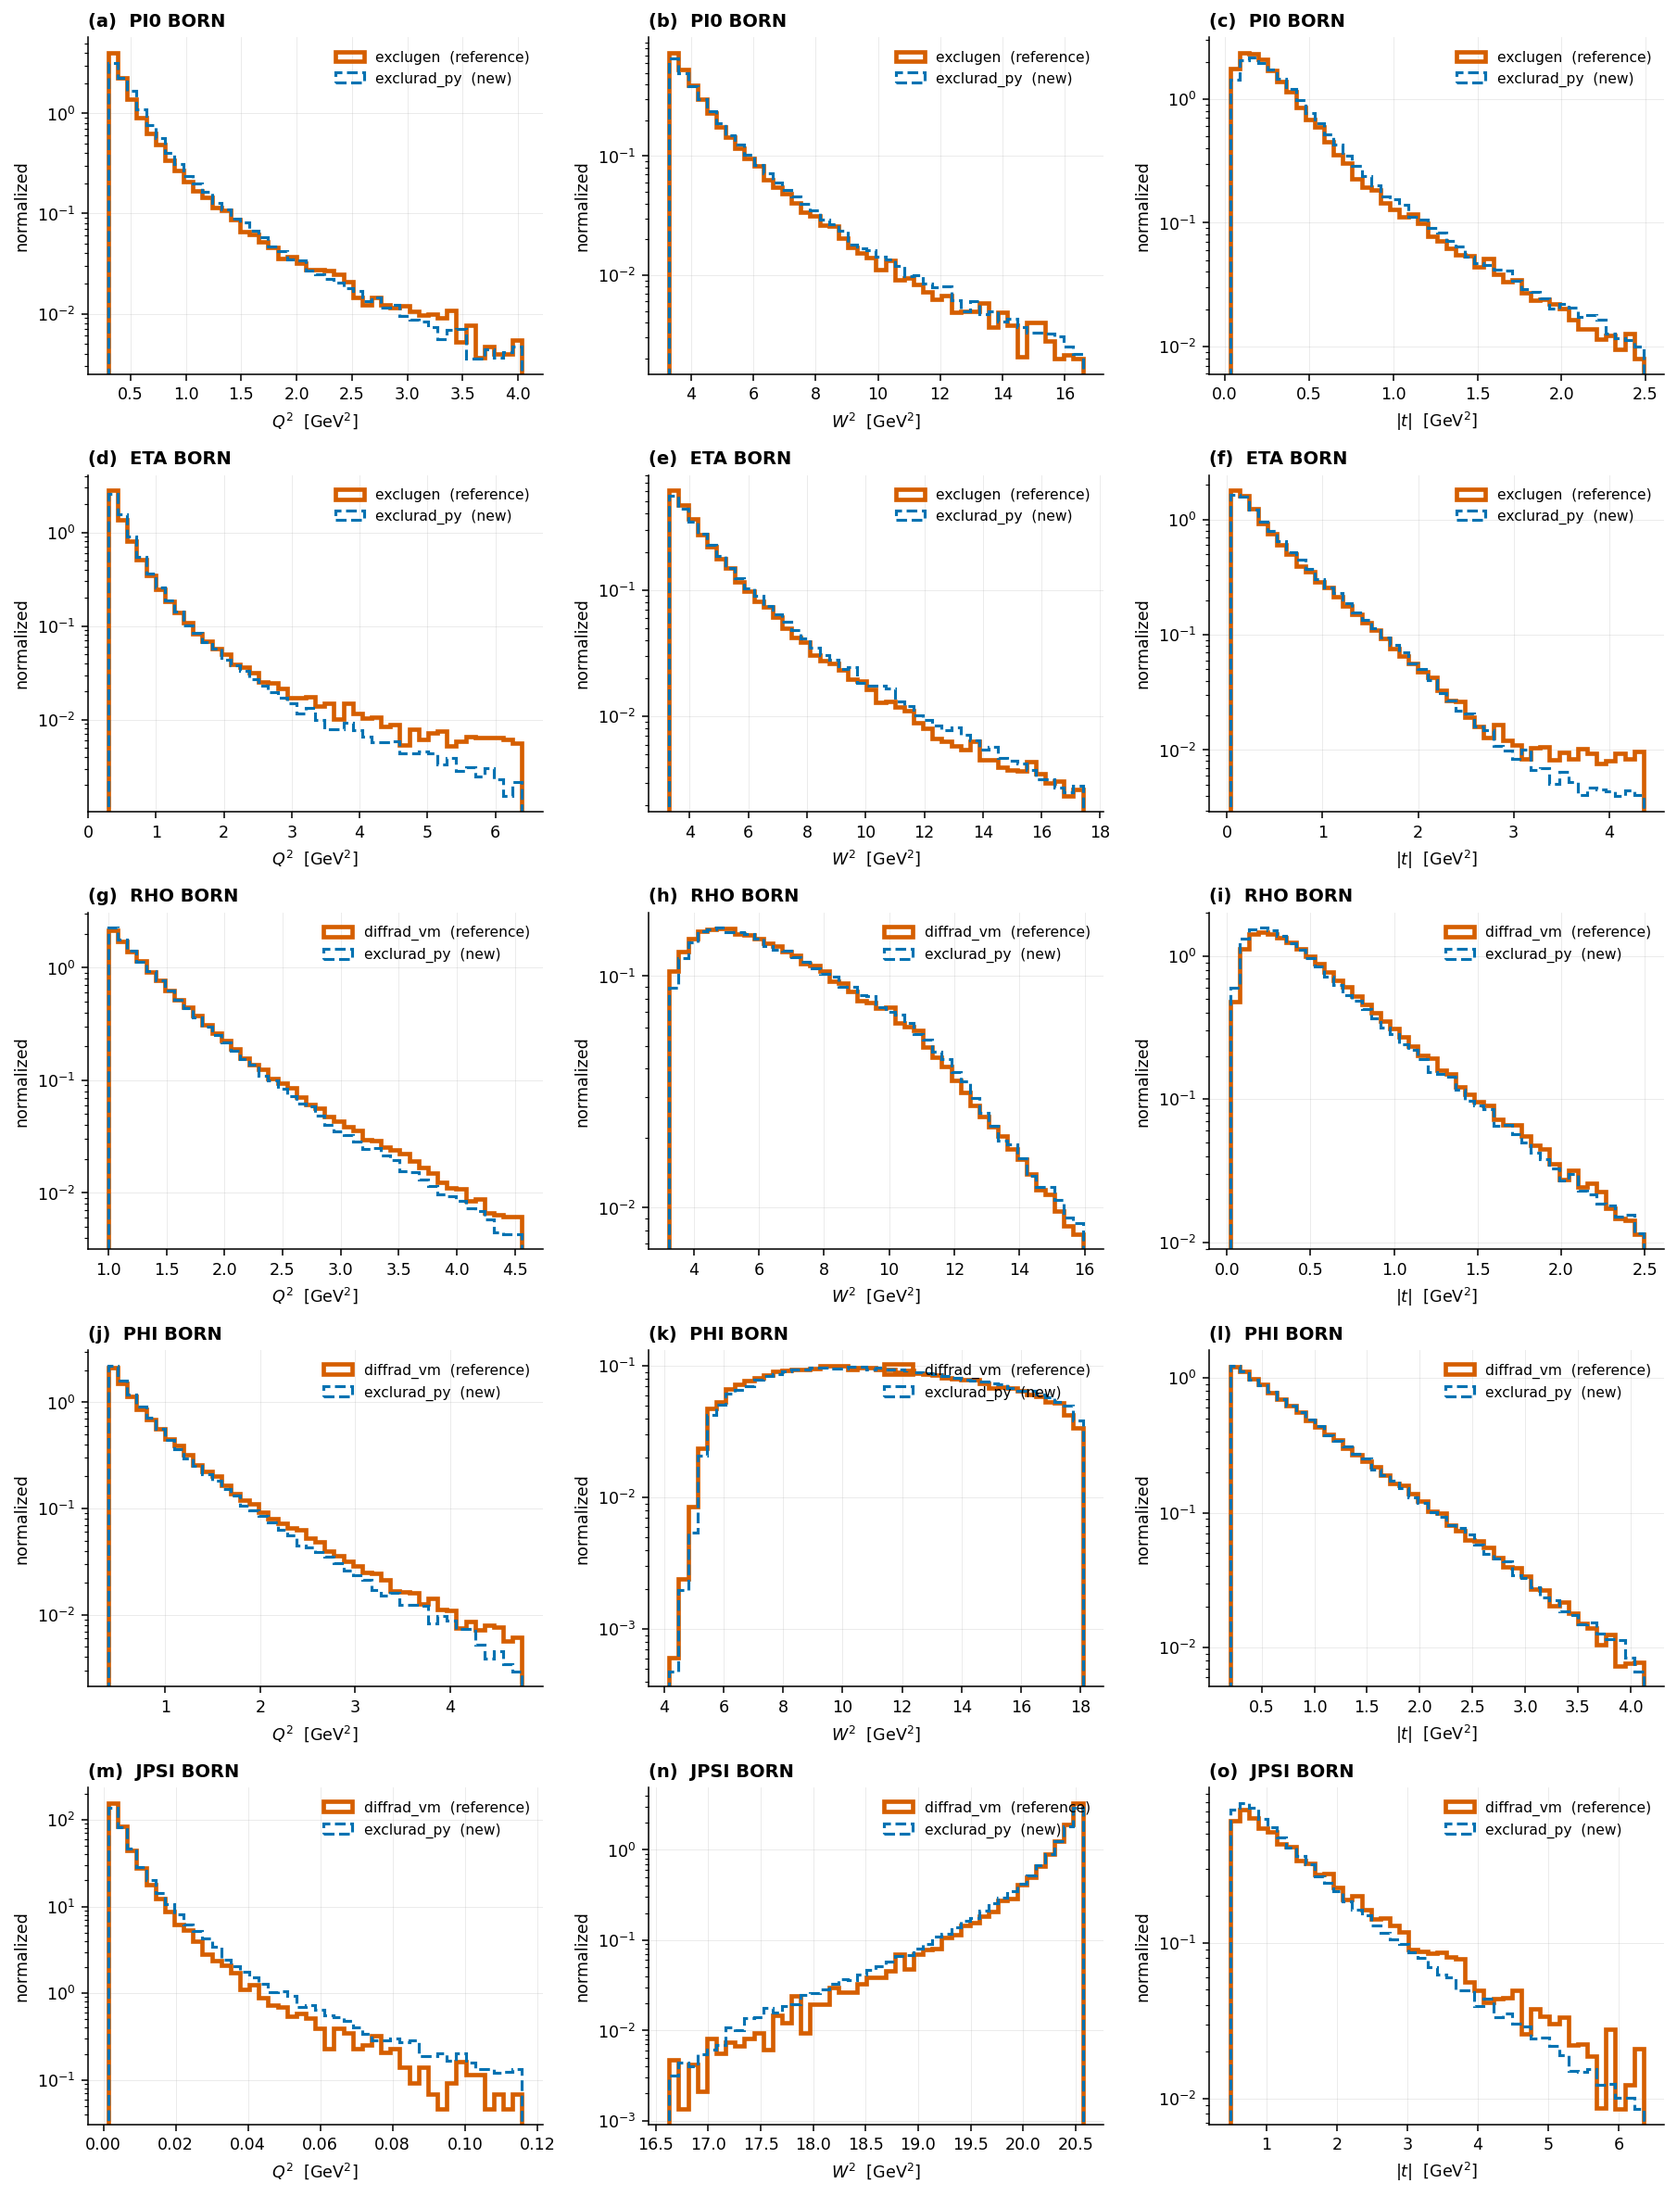
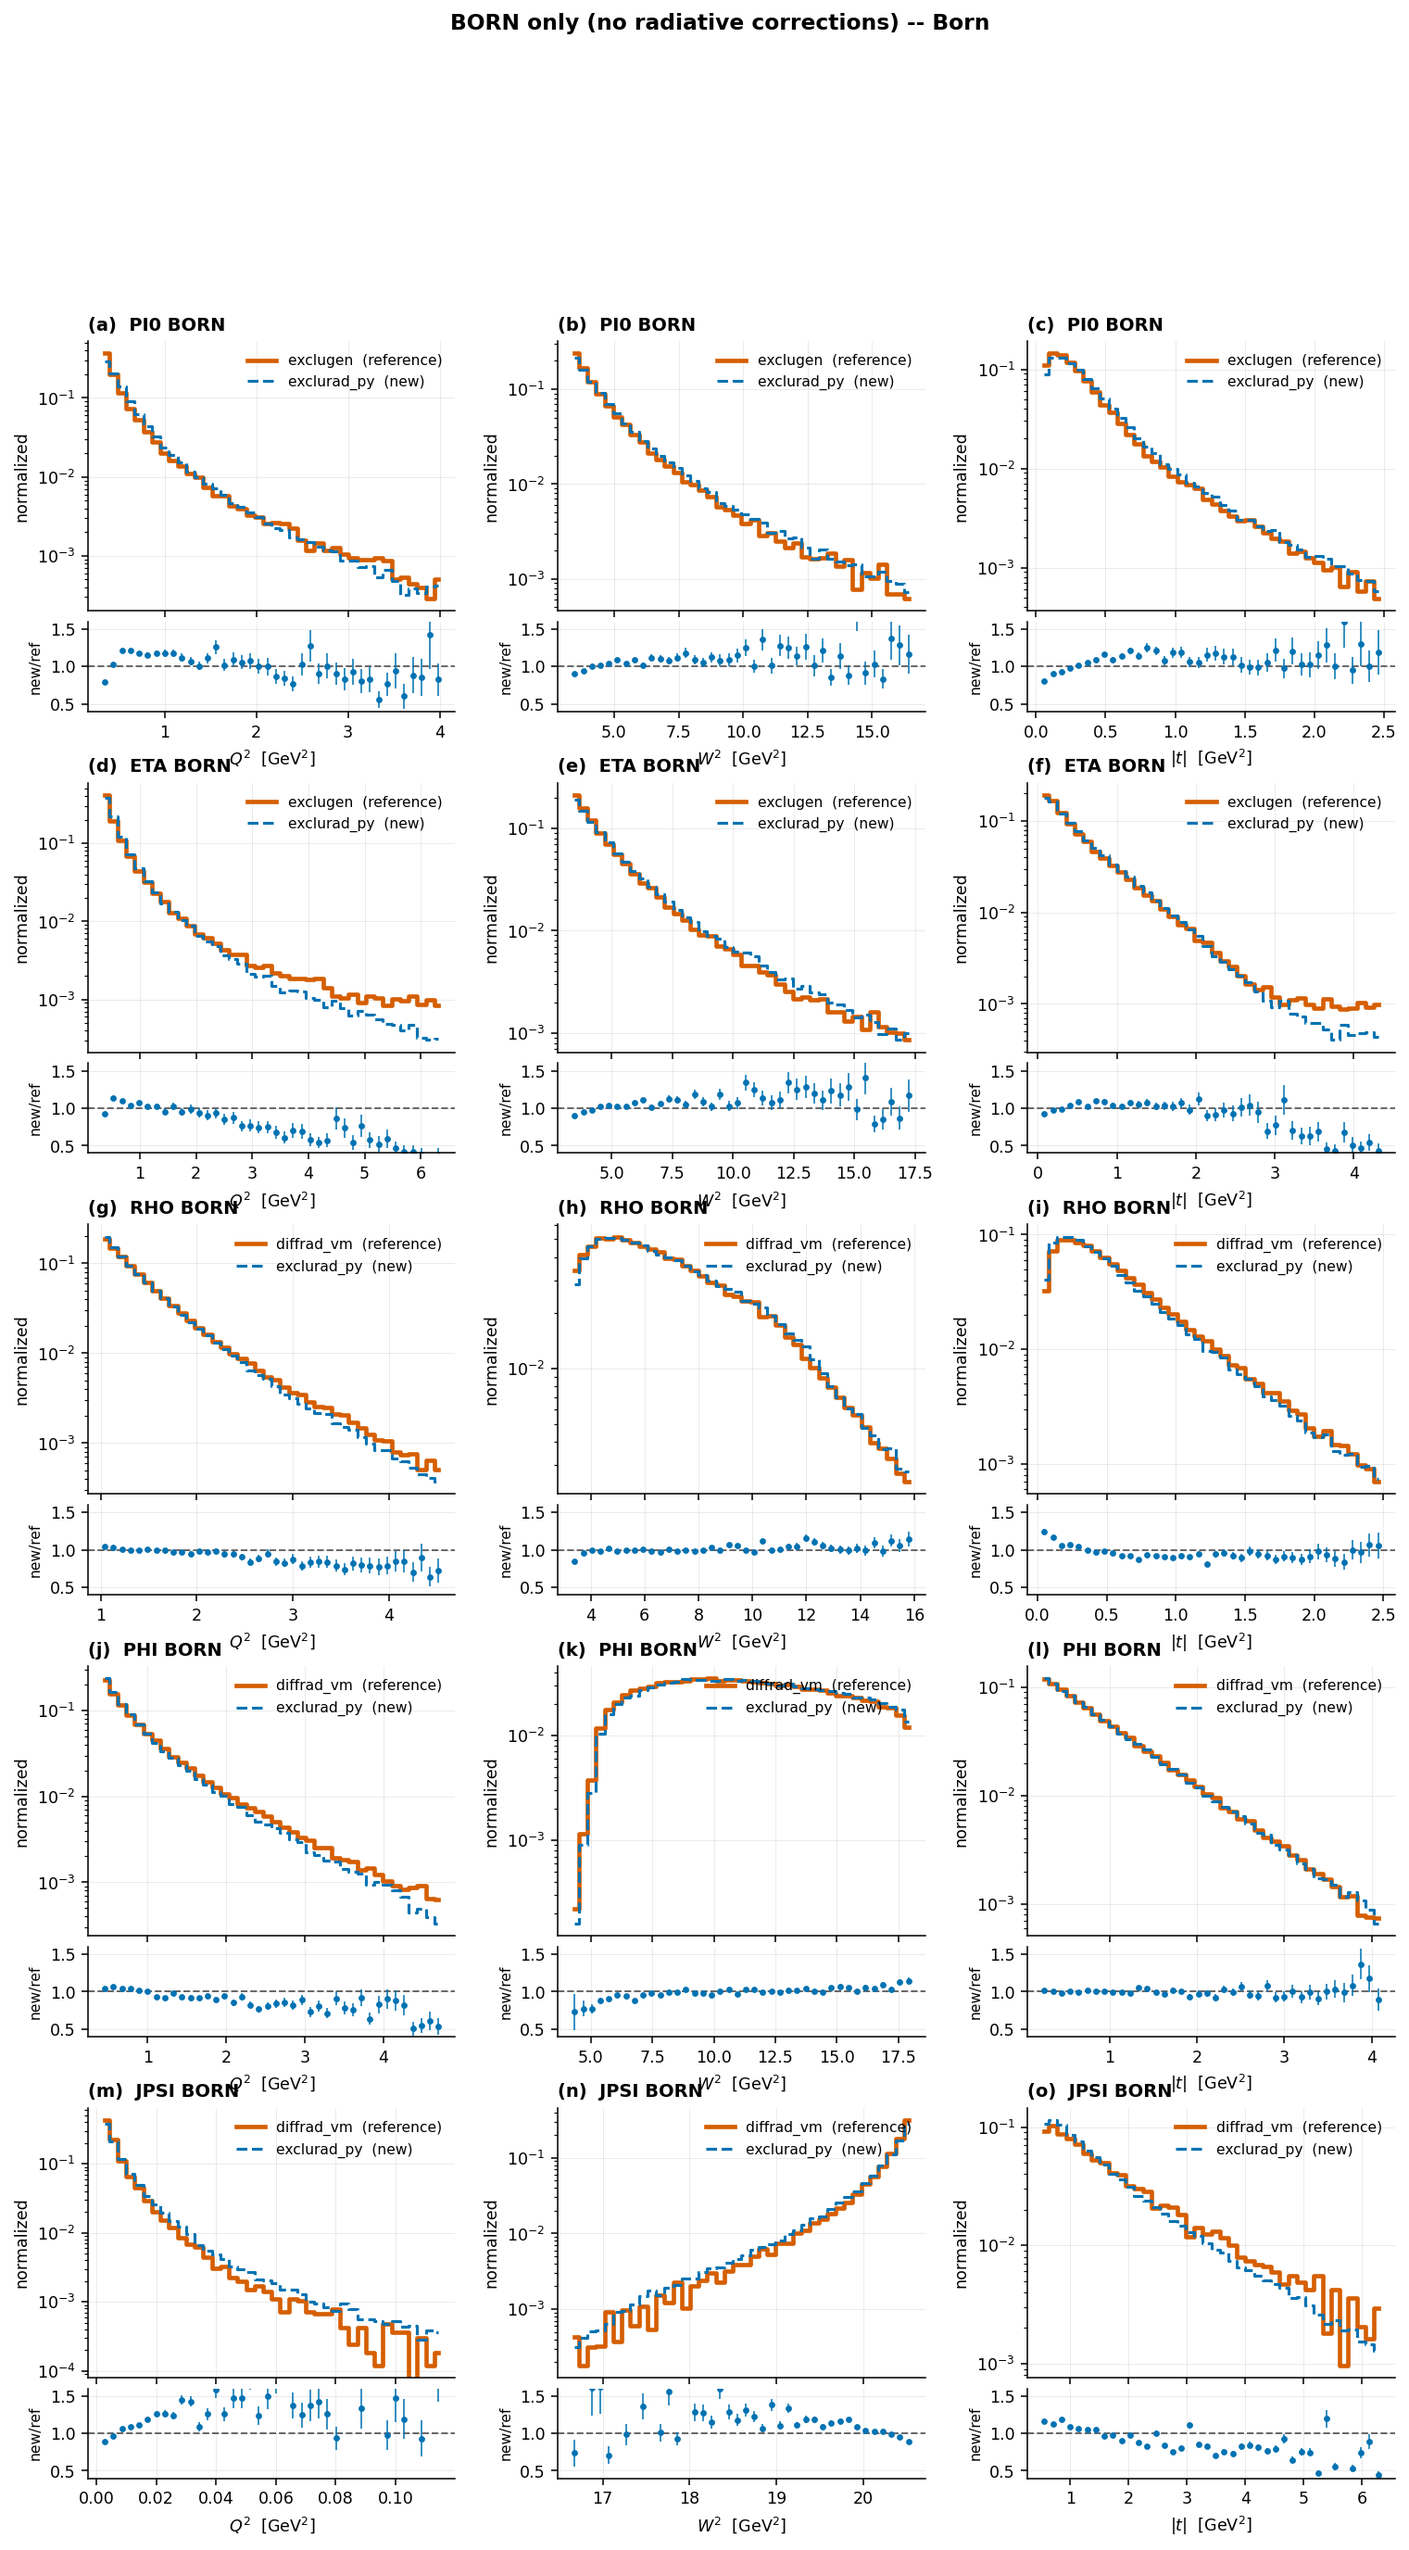
models: stop clamping cross sections at the validity boundary
VPK: 'I don't think that you have to limit the validity of the model. Model
is doing their job and you don't know actually you are doing better or
worse when you fix xs at the limit.'

Correct, and a better argument than the one I was making. Clamping
substitutes a cross section the model never produced, with no evidence the
boundary value is closer to truth than the model's own extrapolation. An
analytic fit is at least self-consistent; a clamp invents a plateau and a
kink in the derivative. And it hides itself -- the event is generated at
its true kinematics but carries a foreign weight.

Measured cost: with validity Q2>0.5 (a bound I invented, not documented in
any fit) against a generation box from 0.3, HALF the sample was clamped --
pi0 51.5%, eta 46.9%. pi0 Born chi2/dof vs exclugen was 24.25 (Q2) and
10.51 (|t|); without the clamp, 1.96 and 0.93 -- statistical agreement.

Default is now OutOfRange.REPORT: evaluate as written, only COUNT the
excursions (sf.usage() already reported them -- I had the instrument all
along and never looked at it). FREEZE/ZERO/RAISE remain for explicit use.

Note eta is NOT explained by this: 94.49 -> 97.41, unchanged. Its Born <Q2>
is 0.73 against exclugen's 1.06, a 30% shift of the whole distribution, not
a tail effect. Separate defect, still open.

diff --git a/production/compare_born.py b/production/compare_born.py
@@ -89,15 +89,34 @@ def mine_files(ch):
     d = f"/Volumes/wd_14tb/mc/exclurad_py/{ch}/20260813_10.6_born_v1/lund"
     return sorted(glob.glob(f"{d}/{ch}_exclurad_py_born_10.6GeV*.lund"))
 
-chans = [c for c in sys.argv[1:] or list(REF) if mine_files(c)]
-fig, ax = plt.subplots(len(chans), 3, figsize=(13, 3.4 * len(chans)), squeeze=False)
+# Split by reference: pseudoscalars are compared to exclugen, vector
+# mesons to diffrad_vm.  Two pages rather than one, since the groups share
+# neither the reference nor the physics.
+GROUPS = {"ps": ["pi0", "eta"], "vm": ["rho", "phi", "jpsi"]}
+args = [a for a in sys.argv[1:] if not a.startswith("-")]
+if args and args[0] in GROUPS:
+    chans = [c for c in GROUPS[args[0]] if mine_files(c)]
+    OUTNAME = f"compare_born_{args[0]}.png"
+    TITLE = ("pseudoscalar mesons vs exclugen" if args[0] == "ps"
+             else "vector mesons vs diffrad_vm")
+else:
+    chans = [c for c in args or list(REF) if mine_files(c)]
+    OUTNAME, TITLE = "compare_born.png", "Born"
+from matplotlib.gridspec import GridSpec
+
+nrow = len(chans)
+# 3 rows per channel: histogram, ratio, and a blank spacer so the next
+# channel's title does not land on the previous ratio panel.
+fig = plt.figure(figsize=(13, 4.4 * nrow))
+gs = GridSpec(3 * nrow, 3, figure=fig,
+              height_ratios=[3, 1, 0.55] * nrow, hspace=0.08, wspace=0.28)
 
 for row, ch in enumerate(chans):
     refname, files, need_eeff = REF[ch]
     mp = [read_lund(f, MESON_PID[ch]) for f in mine_files(ch)]
     mine = tuple(np.concatenate([q[i] for q in mp]) for i in range(3))
     parts = [read_lund(f, MESON_PID[ch], need_eeff) for f in files]
-    ref = tuple(np.concatenate([p[i] for p in parts]) for i in range(3))
+    ref = tuple(np.concatenate([p_[i] for p_ in parts]) for i in range(3))
 
     lo = [max(mine[i].min(), ref[i].min()) for i in range(3)]
     hi = [min(mine[i].max(), ref[i].max()) for i in range(3)]
@@ -110,24 +129,49 @@ for row, ch in enumerate(chans):
     for i, lab in enumerate(("Q2", "W2", "|t|")):
         a, b = mine[i][mm], ref[i][rm]
         print(f"     {lab:>4}  mean {a.mean():9.4f} vs {b.mean():9.4f}  "
-              f"ratio {a.mean()/b.mean():6.3f}   median {np.median(a):9.4f} vs {np.median(b):9.4f}")
+              f"ratio {a.mean()/b.mean():6.3f}")
 
-    for j, (lab, unit) in enumerate((("Q^2", "GeV$^2$"), ("W^2", "GeV$^2$"), ("|t|", "GeV$^2$"))):
-        A = ax[row, j]
+    for j, (lab, unit) in enumerate((("Q^2", "GeV$^2$"), ("W^2", "GeV$^2$"),
+                                     ("|t|", "GeV$^2$"))):
+        A = fig.add_subplot(gs[3 * row, j])
+        R = fig.add_subplot(gs[3 * row + 1, j], sharex=A)
         a, b = mine[j][mm], ref[j][rm]
-        bins = np.linspace(min(a.min(), b.min()),
-                           max(np.percentile(a, 99.5), np.percentile(b, 99.5)), 45)
-        A.hist(b, bins=bins, density=True, histtype="step", lw=2.4, color=VERM,
-               label=f"{refname}  (reference)")
-        A.hist(a, bins=bins, density=True, histtype="step", lw=1.6, color=BLUE,
-               ls="--", label="exclurad_py  (new)")
-        A.set_yscale("log")
-        A.set_xlabel(rf"${lab}$  [{unit}]"); A.set_ylabel("normalized")
-        A.set_title(f"({chr(97 + row * 3 + j)})  {ch.upper()} BORN", loc="left",
-                    fontsize=10, fontweight="bold")
-        A.legend(frameon=False, fontsize=8, loc="upper right")
+        bins = np.linspace(lo[j], max(np.percentile(a, 99.5),
+                                      np.percentile(b, 99.5)), 41)
+        ha, _ = np.histogram(a, bins=bins)
+        hb, _ = np.histogram(b, bins=bins)
+        wa, wb = ha / ha.sum(), hb / hb.sum()
+        ctr = 0.5 * (bins[:-1] + bins[1:])
 
-fig.tight_layout()
-out = f"{P}/compare_born.png"
+        A.step(ctr, wb, where="mid", lw=2.4, color=VERM,
+               label=f"{refname}  (reference)")
+        A.step(ctr, wa, where="mid", lw=1.6, color=BLUE, ls="--",
+               label="exclurad_py  (new)")
+        A.set_yscale("log")
+        A.set_ylabel("normalized")
+        A.set_title(f"({chr(97 + row * 3 + j)})  {ch.upper()} BORN",
+                    loc="left", fontsize=10, fontweight="bold")
+        A.legend(frameon=False, fontsize=8, loc="upper right")
+        A.tick_params(labelbottom=False)
+
+        # ratio with Poisson errors on both samples
+        ok = (ha > 0) & (hb > 0)
+        r = np.full(len(ctr), np.nan); e = np.full(len(ctr), np.nan)
+        r[ok] = wa[ok] / wb[ok]
+        e[ok] = r[ok] * np.sqrt(1.0 / ha[ok] + 1.0 / hb[ok])
+        R.axhline(1.0, color=GREY, lw=1, ls="--")
+        R.errorbar(ctr[ok], r[ok], yerr=e[ok], fmt="o", ms=2.5, lw=0.8,
+                   color=BLUE, capsize=0)
+        R.set_ylim(0.4, 1.6)
+        R.set_ylabel("new/ref", fontsize=8)
+        R.set_xlabel(rf"${lab}$  [{unit}]")
+        R.grid(alpha=0.25, lw=0.5)
+    print()
+
+# tight_layout fights the GridSpec hspace that pairs each histogram with
+# its ratio panel; the spacing is set explicitly in the GridSpec instead.
+fig.suptitle(f"BORN only (no radiative corrections) -- {TITLE}",
+             fontsize=12, fontweight="bold", y=0.995)
+out = f"{P}/{OUTNAME}"
 fig.savefig(out, bbox_inches="tight")
 print("wrote", out)

diff --git a/exclurad_py/models/base.py b/exclurad_py/models/base.py
@@ -30,6 +30,23 @@ SF_KEYS = ("sT", "sL", "sTT", "sLT", "sLTp")
 
 
 class OutOfRange:
+    """What to do when kinematics leave the declared validity range.
+
+    DEFAULT IS `REPORT`: evaluate the model as written and only COUNT the
+    excursions.  Clamping (`FREEZE`) substitutes a cross section the model
+    never produced, and there is no evidence that the boundary value is
+    closer to the truth than the model's own extrapolation -- an analytic
+    fit is at least self-consistent, while a clamp invents a plateau and a
+    kink in the derivative.  It also hides itself: the event is generated
+    at its true kinematics but carries a foreign weight.
+
+    Measured cost of the old FREEZE default: with validity Q2 > 0.5 and a
+    generation box starting at 0.3, HALF the sample was clamped, and pi0's
+    Born chi2/dof against exclugen was 24.25 (Q2) and 10.51 (|t|). With the
+    clamp removed: 1.96 and 0.93 -- statistical agreement.
+    """
+
+    REPORT = "report"    # evaluate as-is, only count excursions  <- default
     FREEZE = "freeze"    # clamp arguments to the validity boundary
     ZERO = "zero"        # return 0 outside (discontinuous -- use with care)
     RAISE = "raise"      # abort
@@ -53,7 +70,7 @@ class StructureFunctions:
     provenance = ""
     reference = ""
     validity = {}                 # e.g. dict(W2=(1.2, 12.0), Q2=(0.1, 8.0))
-    out_of_range = OutOfRange.FREEZE
+    out_of_range = OutOfRange.REPORT
     topology: Topology = None
 
     def __init__(self):
@@ -125,6 +142,7 @@ class StructureFunctions:
 
         if self.out_of_range == OutOfRange.FREEZE:
             return clamped["W2"], clamped["Q2"], -clamped["mt"], inrange
+        # REPORT / ZERO / RAISE: hand the model its true arguments
         return W2, Q2, t, inrange
 
     # -- provenance --------------------------------------------------------- #

diff --git a/exclurad_py/models/vector.py b/exclurad_py/models/vector.py
@@ -68,7 +68,7 @@ class Jpsi_Diffrad(StructureFunctions):
     version = "diffrad"
     topology = _JPSI_TOPO
     validity = dict(W2=(16.4, 400.0), Q2=(1e-4, 30.0), mt=(0.0, 12.0))
-    out_of_range = "freeze"
+    # (was "freeze"; clamping removed -- see models.base.OutOfRange)
     provenance = (
         "Exact port of the internal two-gluon J/psi model `difflt` of "
         "idiffrad.f (ivec=4), the model DIFFRAD uses for its own RC. "
